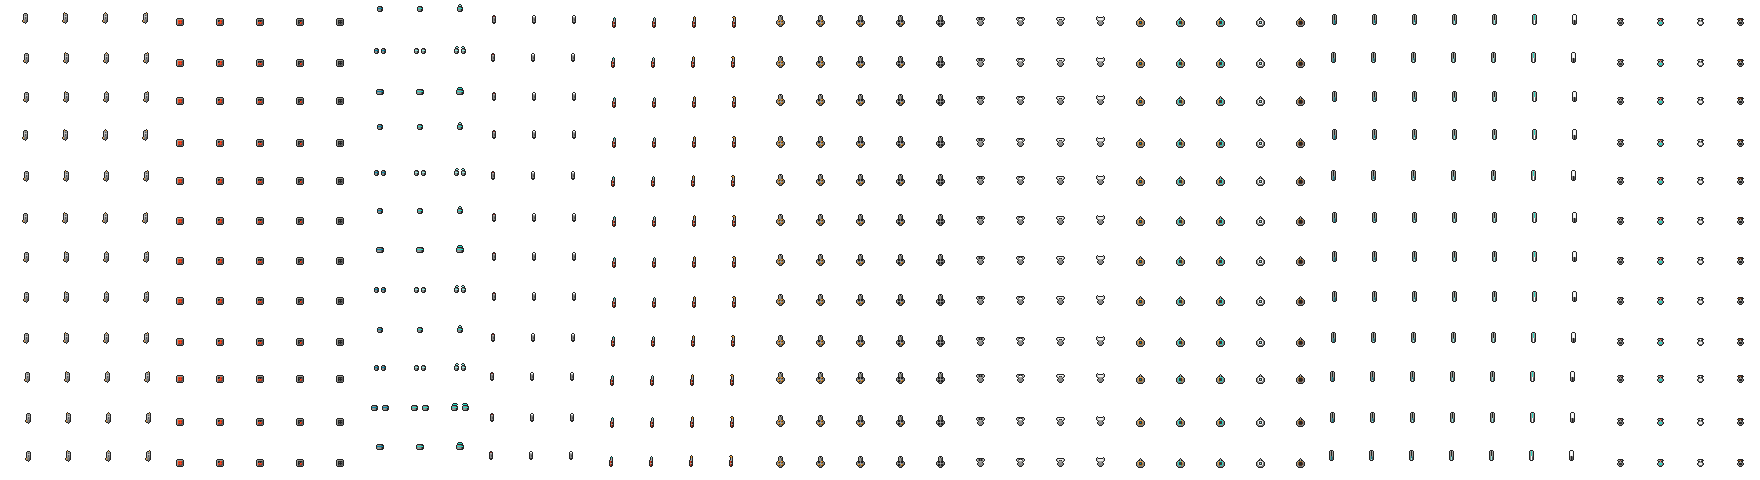
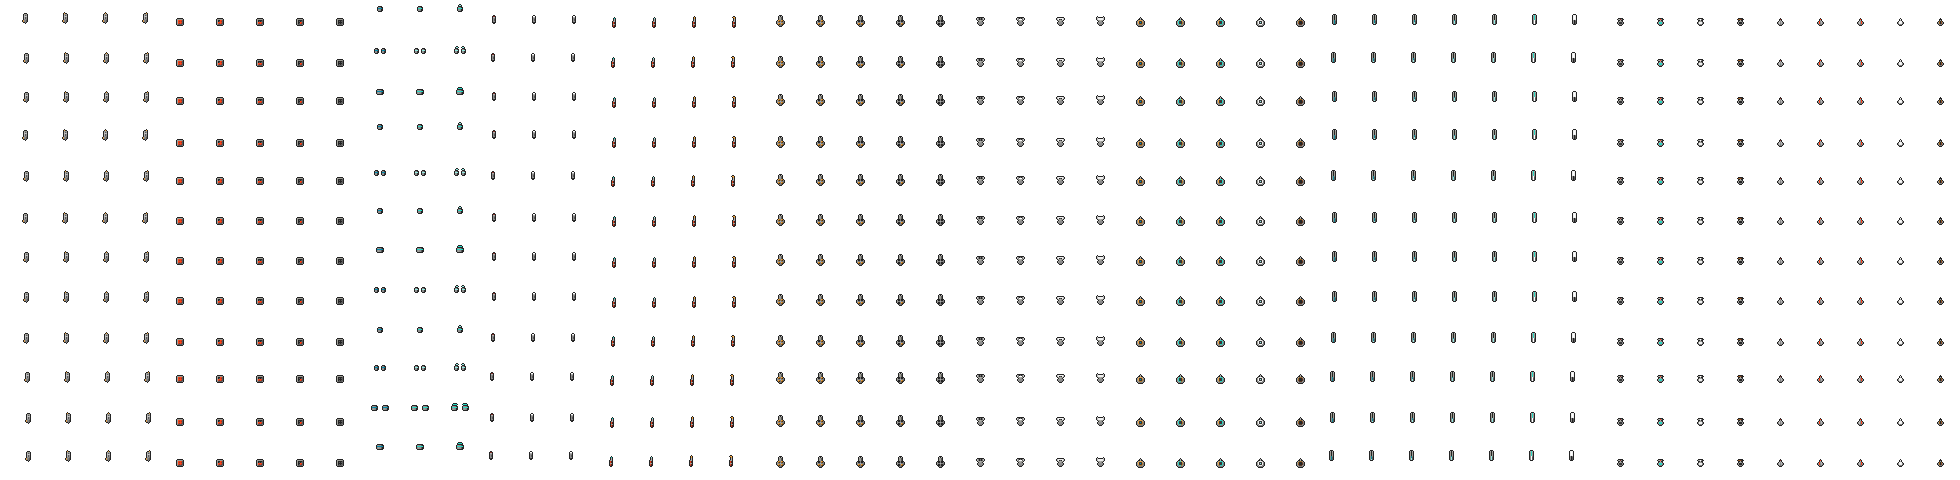
The rod's uplink module on every chassis, its designator lens in the tank anchors (BB-41)

diff --git a/tools/spritegen/tankdesign/lines/vanguard.py b/tools/spritegen/tankdesign/lines/vanguard.py
@@ -440,6 +440,37 @@ def fpv(d, b, st, hp):
         b.lamp(screen, 'white', z=5.6, name='fp_feed')
         b.lamp(link, 'white', z=5.7, name='fp_link')
 
+
+@LINE.module_fn('rod')
+def rod(d, b, st, hp):
+    """A rod from god's uplink on the roof (docs/rod-from-god.md): a squat
+    gunmetal base carrying a steel phased-array panel that talks to the
+    orbit, and a laser designator's lens on a short housing forward of it -
+    the red line to the reticle is drawn from that lens. `st` 0 armed, the
+    lens dim; 1 and 2 tracking a reticle, the lens red and the array's left
+    and then its right column lit red; 3 a call, the array and the lens
+    white; 4 offline, the array scorched and the lens dark. It shares the
+    missiles' hardpoint unless the design gives it its own - a tank carries
+    one special weapon at a time."""
+    hx, hy = hp.get('rod', hp['missiles'])
+    b.meta['lens'] = (hx + 0.5, hy - 2.5)
+    b.part(chamfer(hx - 2, hy - 1, hx + 2, hy + 2, tl=1, tr=1, br=1, bl=1), GUNMETAL, 'plate', 5, step=0,
+           corner=False, name='rg_base')
+    array = rect(hx - 1, hy - 1, hx + 1, hy + 1)
+    b.part(array, RUST if st == 4 else STEEL, 'grille', 5.3, step=0 if st == 4 else 1,
+           pattern=dict(period=2, dir='v'), name='rg_array')
+    b.part({(hx, hy - 2)}, STEEL, 'flat', 5.2, step=1, name='rg_housing')
+    lens = {(hx, hy - 3)}
+    b.part(lens, DARK, 'flat', 5.4, step=-1, name='rg_lens')
+    if st == 0:
+        b.lamp(lens, DIM_LENS, z=5.7, name='rg_lens_lamp')
+    elif st in (1, 2):
+        col = hx - 1 if st == 1 else hx + 1
+        b.lamp(lens, 'warn', z=5.7, name='rg_designator')
+        b.lamp({(col, y) for y in range(hy - 1, hy + 2)}, 'warn', z=5.6, name='rg_track')
+    elif st == 3:
+        b.lamp(array | lens, 'white', z=5.7, name='rg_call')
+
 # ---------------------------------------------------------------------------
 # Scout - fast recon. Silhouette: an arrowhead nose ahead of short narrow
 # runs, a small round turret with the optic pod bulging off its left cheek

diff --git a/tools/spritegen/tankdesign/export.py b/tools/spritegen/tankdesign/export.py
@@ -104,7 +104,7 @@ def main(argv):
         # as its own function drew it.
         hp = r.hardpoints
         mm = {}
-        for w in ('minigun', 'laser', 'flame', 'missiles', 'grenade', 'sonic', 'emp', 'gauss'):
+        for w in ('minigun', 'laser', 'flame', 'missiles', 'grenade', 'sonic', 'emp', 'gauss', 'rod'):
             b = Builder(Ctx(ch, 'enemy'), 'module', 0, 0)
             design.module(b, w, 0, hp)
             mm[w] = b.meta
@@ -114,7 +114,7 @@ def main(argv):
         art.append(dict(chassis=ch, codename=design.codename, heads=heads, spots=spots, muzzles=muzzles,
                         minigun=mm['minigun']['muzzle'], laser=mm['laser']['muzzle'], flame=mm['flame']['muzzle'],
                         grenade=mm['grenade']['muzzle'], sonic=mm['sonic']['muzzle'], emp=mm['emp']['coil'],
-                        gauss=mm['gauss']['muzzle'],
+                        gauss=mm['gauss']['muzzle'], rod=mm['rod']['lens'],
                         tubes=mm['missiles']['tubes']))
         print('exported', ch, design.codename)
     static = os.path.join(repo, 'static')
@@ -166,7 +166,9 @@ def write_rust(path, line_key, art):
              'The grenade launcher module\'s barrel mouth, where its grenades leave (turret frame).'),
             ('sonic', 'SONIC_MUZZLE', 'The sonic hammer module\'s dish, where its wind-up is drawn (turret frame).'),
             ('emp', 'EMP_COIL', 'The EMP module\'s coil centre, where its crackle is drawn (turret frame).'),
-            ('gauss', 'RAIL_MUZZLE', 'The gauss rail module\'s bore mouth, where its slug is drawn from (turret frame).')):
+            ('gauss', 'RAIL_MUZZLE', 'The gauss rail module\'s bore mouth, where its slug is drawn from (turret frame).'),
+            ('rod', 'ROD_LENS',
+             'The rod uplink\'s designator lens, where its line to the reticle is drawn from (turret frame).')):
         L.append('/// %s' % doc)
         L.append('pub const %s: [(f32, f32); 12] = [' % name)
         for a in art:

diff --git a/src/tank_art.rs b/src/tank_art.rs
@@ -169,6 +169,22 @@ pub const RAIL_MUZZLE: [(f32, f32); 12] = [
     (-8.5, -9.0), // leviathan
 ];
 
+/// The rod uplink's designator lens, where its line to the reticle is drawn from (turret frame).
+pub const ROD_LENS: [(f32, f32); 12] = [
+    (0.5, -0.5), // scout
+    (0.5, 0.5), // assault
+    (0.5, -1.5), // breaker
+    (0.5, 0.5), // longbow
+    (0.5, -1.5), // flak
+    (0.5, -1.5), // wraith
+    (0.5, -1.5), // warden
+    (0.5, -1.5), // ravager
+    (0.5, -0.5), // glacier
+    (0.5, -3.5), // obelisk
+    (0.5, -0.5), // titan
+    (0.5, 0.5), // leviathan
+];
+
 /// The missile launcher's four tube mouths, in firing order (turret frame).
 pub const MISSILE_TUBES: [[(f32, f32); 4]; 12] = [
     [(-1.0, 1.0), (1.0, 1.0), (-1.0, 3.0), (1.0, 3.0)], // scout

diff --git a/tools/spritegen/gen_crates.py b/tools/spritegen/gen_crates.py
@@ -298,9 +298,9 @@ HEAT_TOP = 5
 # and the token keeps the lamps in that colour.
 LAMP_TONE = {'fpv_swarm', 'rod_from_god'}
 
-# Two-tone kinds whose body is lit along its top in a step of its own
-# rather than in the lamps' colour: the rod's tungsten.
-BODY_LIGHT = {'rod_from_god': pp.STONE_LT}
+# Two-tone kinds whose body is lit along its top in white rather than in
+# the lamps' colour: the rod's tungsten, shining.
+BODY_LIGHT = {'rod_from_god': pp.WHITE}
 
 # The crate, 20 x 20 design pixels: three planks between two battens, nailed
 # at the corners. Lid rows 2-15 inside the outline, the front face rows

diff --git a/tools/spritegen/tankdesign/render.py b/tools/spritegen/tankdesign/render.py
@@ -54,7 +54,7 @@ MODULE_COLS = sum(WEAPON_STATES[w] for w in WEAPONS)
 # The modules a preview draws on one tank at once: the grenade launcher, the
 # sonic hammer, the EMP projector and the FPV relay share the missiles' roof,
 # the gauss rail the laser's cheek, and a tank carries one special at a time.
-SHOWN_TOGETHER = [w for w in WEAPONS if w not in ('grenade', 'sonic', 'emp', 'gauss', 'fpv')]
+SHOWN_TOGETHER = [w for w in WEAPONS if w not in ('grenade', 'sonic', 'emp', 'gauss', 'fpv', 'rod')]
 
 
 def load_line(key):

diff --git a/tools/spritegen/tankdesign/kit.py b/tools/spritegen/tankdesign/kit.py
@@ -1066,6 +1066,6 @@ class Line:
         fn(design, b, state, hp)
 
 
-WEAPONS = ['minigun', 'missiles', 'plasma', 'laser', 'flame', 'grenade', 'sonic', 'emp', 'gauss', 'fpv']
+WEAPONS = ['minigun', 'missiles', 'plasma', 'laser', 'flame', 'grenade', 'sonic', 'emp', 'gauss', 'fpv', 'rod']
 WEAPON_STATES = {'minigun': 4, 'missiles': 5, 'plasma': 3, 'laser': 3, 'flame': 4, 'grenade': 5, 'sonic': 4,
-                 'emp': 5, 'gauss': 7, 'fpv': 4}
+                 'emp': 5, 'gauss': 7, 'fpv': 4, 'rod': 5}
